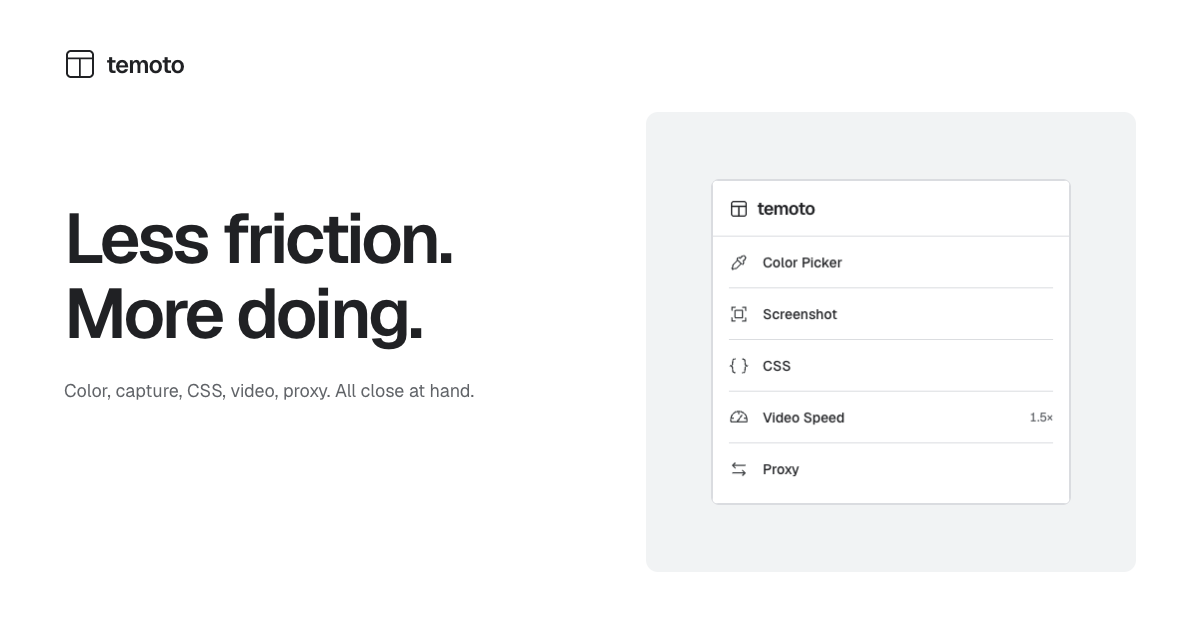
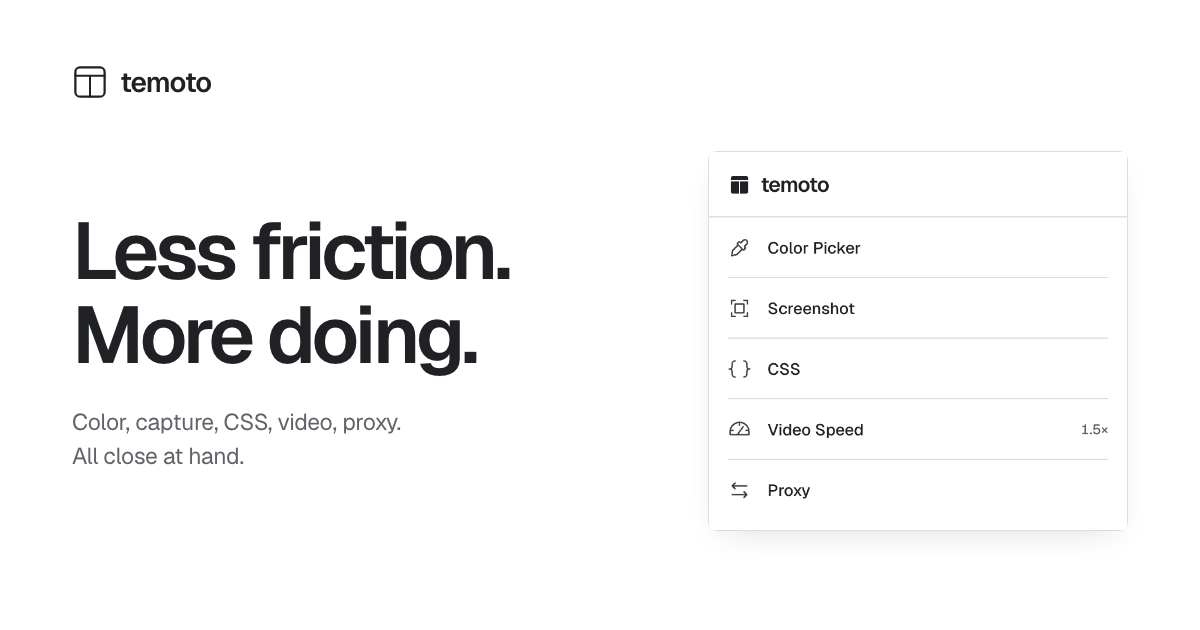
style: simplify temoto social preview layout (#95)

diff --git a/site/scripts/og.html b/site/scripts/og.html
@@ -8,25 +8,27 @@
     @font-face { font-family: "Geist"; src: url("../public/brand/Geist-Variable.woff2") format("woff2"); font-weight: 100 900; font-display: block; }
     * { box-sizing: border-box; }
     html, body { color-scheme: light; width: 1200px; height: 630px; margin: 0; overflow: hidden; background: #fff; color: #202124; font-family: "Geist", sans-serif; -webkit-font-smoothing: antialiased; }
-    main { position: relative; width: 1200px; height: 630px; padding: 48px 64px; }
-    .brand { display: flex; align-items: center; gap: 10px; font-size: 24px; font-weight: 600; letter-spacing: -.035em; }
-    .brand img { width: 32px; height: 32px; }
-    .copy { position: absolute; left: 64px; top: 200px; }
-    h1 { margin: 0; font-size: 70px; font-weight: 600; line-height: 1.08; letter-spacing: -.045em; }
-    h1 span { display: block; }
-    .description { max-width: 500px; margin: 26px 0 0; color: #5f6368; font-size: 18px; line-height: 1.5; }
-    .stage { position: absolute; top: 112px; right: 64px; width: 490px; height: 460px; display: flex; align-items: center; justify-content: center; border-radius: 12px; background: #f1f3f4; }
-    .launcher { display: block; width: 360px; height: auto; border: 1px solid #dadce0; border-radius: 8px; }
+    main { width: 1200px; height: 630px; padding: 64px 72px 80px; display: grid; grid-template-rows: 36px 1fr; gap: 32px; }
+    .brand { display: flex; align-items: center; gap: 12px; font-size: 28px; font-weight: 600; letter-spacing: -.035em; }
+    .brand img { display: block; width: 36px; height: 36px; }
+    .composition { display: grid; grid-template-columns: 560px 420px; align-items: center; gap: 76px; }
+    h1 { margin: 0; font-size: 80px; font-weight: 600; line-height: 1.05; letter-spacing: -.05em; }
+    h1 span { display: block; white-space: nowrap; }
+    .description { margin: 28px 0 0; color: #5f6368; font-size: 23px; line-height: 1.5; letter-spacing: -.015em; }
+    .description span { display: block; }
+    .launcher { display: block; width: 420px; height: auto; border-radius: 8px; box-shadow: 0 12px 32px -16px #20212430; }
   </style>
 </head>
 <body>
   <main>
     <header class="brand"><img src="../public/temoto-mark.svg" alt="" /><span>temoto</span></header>
-    <section class="copy">
-      <h1><span>Less friction.</span><span>More doing.</span></h1>
-      <p class="description">Color, capture, CSS, video, proxy. All close at hand.</p>
+    <section class="composition">
+      <div class="copy">
+        <h1><span>Less friction.</span><span>More doing.</span></h1>
+        <p class="description"><span>Color, capture, CSS, video, proxy.</span><span>All close at hand.</span></p>
+      </div>
+      <img class="launcher" src="../public/showcase/chrome-launcher-2x.png" alt="temoto's five tools: Color Picker, Screenshot, CSS, Video Speed, and Proxy" />
     </section>
-    <div class="stage"><img class="launcher" src="../public/showcase/chrome-launcher.png" alt="temoto's five tools: Color Picker, Screenshot, CSS, Video Speed, and Proxy" /></div>
   </main>
 </body>
 </html>
